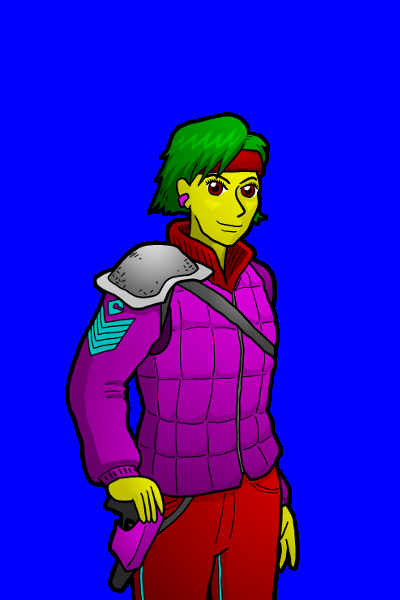
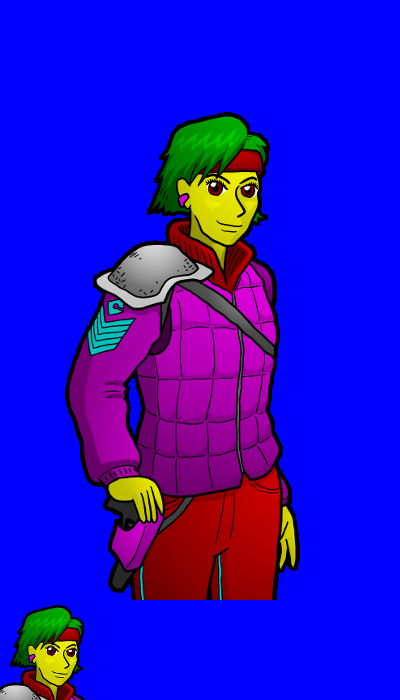
Convo with mecha uses mecha portrait

diff --git a/game/content/mocha.py b/game/content/mocha.py
@@ -120,6 +120,10 @@ class WinterMochaBlower( waypoints.Waypoint ):
     TILE = pbge.scenes.Tile( None, None, WinterMochaBlowerTerrain )
     desc = "You stand before an industrial air blower. It's probably being used in the construction of the new arena."
 
+class WinterMochaPavement( pbge.scenes.terrain.VariableTerrain ):
+    image_bottom = 'terrain_wintermocha_pavement.png'
+    border = pbge.scenes.terrain.FloorBorder( ghterrain.Snow, 'terrain_border_snowline.png' )
+
 # *****************
 # ***   PLOTS   ***
 # *****************
@@ -174,8 +178,8 @@ class FrozenHotSpringCity( Plot ):
          gears.stats.Charm:12,gears.stats.MechaPiloting:7,gears.stats.MechaGunnery:7,
          gears.stats.MechaFighting:7},
          personality=[personality.Cheerful,personality.Shy,personality.Fellowship])
-        vikki.imagename = 'cha_wm_vikki.png'
-        vikki.portrait = 'por_f_wintervikki.png'
+        #vikki.imagename = 'cha_wm_vikki.png'
+        vikki.portrait = 'card_f_wintervikki.png'
         vikki.colors = (gears.color.ShiningWhite,gears.color.LightSkin,gears.color.NobleGold,gears.color.HunterOrange,gears.color.Olive)
         vikki.mmode = pbge.scenes.movement.Walking
         myroom.contents.append(vikki)
@@ -191,7 +195,7 @@ class FrozenHotSpringCity( Plot ):
 
         fence_gate = self.register_element("FENCE_GATE",waypoints.Waypoint(plot_locked=True,desc="This is the gate of the mecha storage yard."))
 
-        myroom4 = pbge.randmaps.rooms.FuzzyRoom(6,5,anchor=pbge.randmaps.anchors.northwest,parent=myscenegen)
+        myroom4 = self.register_element("FENCE_GATE_ROOM",pbge.randmaps.rooms.FuzzyRoom(6,5,anchor=pbge.randmaps.anchors.northwest,parent=myscenegen))
         myroom5 = WinterMochaFence(parent=myroom4,anchor=pbge.randmaps.anchors.west,waypoints={'DOOR':fence_gate})
 
         # I don't know why I added a broken shovel. Just thought it was funny.
@@ -210,6 +214,7 @@ class FrozenHotSpringCity( Plot ):
 
         self.add_sub_plot( nart, "MOCHA_MISSION", PlotState( elements={"CITY":myscene} ).based_on( self ), ident="COMBAT" )
         self.add_sub_plot( nart, "MOCHA_HYOLEE" )
+        self.add_sub_plot( nart, "MOCHA_CARTER" )
 
         self.did_opening_sequence = False
         self.got_vikki_history = False
@@ -340,9 +345,57 @@ class WinterMochaHyolee( Plot ):
         hyolee.colors = (gears.color.Viridian,gears.color.Chocolate,gears.color.Saffron,gears.color.GunRed,gears.color.RoyalPink)
         hyolee.mmode = pbge.scenes.movement.Walking
         self.register_element( "HYOLEE", hyolee, dident="ROOM" )
-
-
         return True
+
+class WinterMochaCarter( Plot ):
+    LABEL = "MOCHA_CARTER"
+    active = True
+    scope = "LOCALE"
+    def custom_init( self, nart ):
+        myscene = self.elements["LOCALE"]
+
+        carter = gears.base.Character(name="Carter",statline={gears.stats.Reflexes:14,
+         gears.stats.Body:16,gears.stats.Speed:12,gears.stats.Perception:15,
+         gears.stats.Knowledge:14,gears.stats.Craft:11,gears.stats.Ego:13,
+         gears.stats.Charm:9,gears.stats.MechaGunnery:6,gears.stats.MechaFighting:6,
+         gears.stats.MechaPiloting:7},
+         personality=[personality.Shy,personality.Easygoing,personality.Justice])
+        carter.imagename = 'cha_wm_hyolee.png'
+        carter.portrait = 'por_m_wintercarter.png'
+        carter.colors = (gears.color.BugBlue,gears.color.Burlywood,gears.color.AceScarlet,gears.color.SkyBlue,gears.color.SlateGrey)
+        carter.mmode = pbge.scenes.movement.Walking
+        self.register_element( "CARTER", carter, dident="FENCE_GATE_ROOM" )
+        return True
+
+
+# Mocha Mission Construction.
+#
+# The Mocha mission is going to use a miniature version of the GH1 core story
+# generator plus a branching conclusion. One of the brilliant things about
+# defining content in Python is that I don't need to hardcode the story
+# generator; instead, the plots involved can define their own rules. Yay!
+#
+# Here's how the story generator works. There are three story state variables-
+# in this case they will be Enemy, Complication, and Stakes. Each story
+# component is keyed to two of the state variables and alters one of them.
+# If each variable has ten possible states, that means there are 1000 possible
+# story states but only 300 story components are needed to ensure three
+# possible outcomes for each state.
+#
+# In practice, far fewer components should be needed since not every state
+# will be reachable and each state really only needs one possible outcome.
+# Plus, many components will have broad requirements- instead of only applying
+# to a single two-variable state, it may apply to multiple states involving
+# those two variables.
+#
+# Enemy -
+# Complication - 
+# Stakes - 
+
+class WMRoad( pbge.randmaps.rooms.Room ):
+    """A room without hard walls, with default ground floors."""
+    def build( self, gb, archi ):
+        gb.fill(self.area,floor=WinterMochaPavement)
 
 
 class WinterBattle( Plot ):
@@ -365,7 +418,7 @@ class WinterBattle( Plot ):
         myscene.exploration_music = 'Lines.ogg'
         myscene.combat_music = 'Late.ogg'
 
-        myroom = pbge.randmaps.rooms.FuzzyRoom(10,10,parent=myscene,anchor=pbge.randmaps.anchors.south)
+        myroom = WMRoad(10,10,parent=myscene,anchor=pbge.randmaps.anchors.south)
         myent = self.register_element( "ENTRANCE", waypoints.Waypoint(anchor=pbge.randmaps.anchors.middle))
         myroom.contents.append( myent )
 

diff --git a/pbge/image.py b/pbge/image.py
@@ -24,7 +24,7 @@ class Gradient( Singleton ):
 
 
 class Image( object ):
-    def __init__(self,fname=None,frame_width=0,frame_height=0,color=None):
+    def __init__(self,fname=None,frame_width=0,frame_height=0,color=None,custom_frames=None):
         """Load image file, or create blank image, at frame size"""
         if fname:
             if (fname,repr(color)) in pre_loaded_images:
@@ -51,20 +51,35 @@ class Image( object ):
         self.frame_width = frame_width
         self.frame_height = frame_height
 
+        self.custom_frames = custom_frames
+
     def render( self , dest = (0,0) , frame=0, dest_surface=None ):
         # Render this Image onto the provided surface.
         # Start by determining the correct sub-area of the image.
-        frames_per_row = self.bitmap.get_width() / self.frame_width
-        area_x = ( frame % frames_per_row ) * self.frame_width
-        area_y = ( frame / frames_per_row ) * self.frame_height
-        area = pygame.Rect( area_x , area_y , self.frame_width , self.frame_height )
+        if self.custom_frames and frame < len(self.custom_frames):
+            area = pygame.Rect(self.custom_frames[frame])
+        else:
+            frames_per_row = self.bitmap.get_width() / self.frame_width
+            area_x = ( frame % frames_per_row ) * self.frame_width
+            area_y = ( frame / frames_per_row ) * self.frame_height
+            area = pygame.Rect( area_x , area_y , self.frame_width , self.frame_height )
         dest_surface = dest_surface or my_state.screen
         dest_surface.blit(self.bitmap , dest , area )
 
+    def get_rect( self, frame ):
+        # Return a rect of the correct size for this frame.
+        if self.custom_frames and frame < len(self.custom_frames):
+            return pygame.Rect(0,0,self.custom_frames[frame][2],self.custom_frames[frame][3])
+        else:
+            return pygame.Rect(0,0,self.frame_width,self.frame_height)
+
     def num_frames( self ):
-        frames_per_row = self.bitmap.get_width() / self.frame_width
-        frames_per_column = self.bitmap.get_height() / self.frame_height
-        return frames_per_row * frames_per_column
+        if self.custom_frames:
+            return len(self.custom_frames)
+        else:
+            frames_per_row = self.bitmap.get_width() / self.frame_width
+            frames_per_column = self.bitmap.get_height() / self.frame_height
+            return frames_per_row * frames_per_column
 
     def recolor( self, color_channels ): 
         # Just gonna brute force this. It could probably be speeded up by using

diff --git a/gears/base.py b/gears/base.py
@@ -131,6 +131,27 @@ class Stackable( KeyObject ):
             and self.name is part.name and self.desig is part.desig
             and not self.inv_com and not self.sub_com )
 
+class WithPortrait( pbge.scenes.PlaceableThing ):
+    def __init__(self, portrait=None, **keywords ):
+        self.portrait = portrait
+        super(WithPortrait, self).__init__(**keywords)
+    SAVE_PARAMETERS = ('portrait',)
+    FRAMES = ((0,0,400,600),(0,600,100,100),(100,600,64,64))
+    def get_sprite(self):
+        """Generate the sprite for this thing."""
+        if self.portrait and self.portrait.startswith('card_'):
+            self.frame = 2
+            return pbge.image.Image(self.portrait,self.imagewidth,self.imageheight,self.colors,custom_frames=self.FRAMES)
+        else:
+            return pbge.image.Image(self.imagename,self.imagewidth,self.imageheight,self.colors)
+    def get_portrait(self):
+        if self.portrait:
+            if self.portrait.startswith('card_'):
+                return pbge.image.Image(self.portrait,self.imagewidth,self.imageheight,self.colors,custom_frames=self.FRAMES)
+            else:
+                return pbge.image.Image(self.portrait,400,600,self.colors)
+
+
 class Mover( KeyObject ):
     # A mover is a gear that moves under its own power, like a character or mecha.
     def __init__(self, **keywords ):
@@ -450,6 +471,7 @@ class BaseGear( scenes.PlaceableThing ):
         memo[id(self)] = newgear
 
         return newgear
+
 
 #
 #  Practical Gears
@@ -1331,7 +1353,7 @@ class MT_Battroid( Singleton ):
         return base_speed
 
 
-class Mecha(BaseGear,ContainerDamageHandler,Mover):
+class Mecha(BaseGear,ContainerDamageHandler,Mover,WithPortrait):
     SAVE_PARAMETERS = ('name','form')
     def __init__(self, form=MT_Battroid, **keywords ):
         name = keywords.get(  "name" )
@@ -1508,7 +1530,7 @@ class Mecha(BaseGear,ContainerDamageHandler,Mover):
         return it
 
 
-class Character(BaseGear,StandardDamageHandler,Mover):
+class Character(BaseGear,StandardDamageHandler,Mover,WithPortrait):
     SAVE_PARAMETERS = ('name','form')
     DEFAULT_SCALE = scale.HumanScale
     DEFAULT_MATERIAL = materials.Meat

diff --git a/game/ghdialogue/ghdview.py b/game/ghdialogue/ghdview.py
@@ -8,14 +8,19 @@ class ConvoVisualizer(object):
     TEXT_AREA = pbge.frects.Frect(0,-125,350,100)
     MENU_AREA = pbge.frects.Frect(0,0,350,80)
     PORTRAIT_AREA = pbge.frects.Frect(-370,-300,400,600)
+    PILOT_AREA = pbge.frects.Frect(-350,-250,100,100)
     
     def __init__(self,npc):
-        npc = npc.get_pilot()
-        self.npc = npc
-        if hasattr(npc, "portrait"):
-            self.npc_sprite = pbge.image.Image(npc.portrait,400,600,npc.colors)
+        pilot = npc.get_pilot()
+        self.npc = pilot
+        if hasattr(npc, "get_portrait"):
+            self.npc_sprite = npc.get_portrait()
         else:
             self.npc_sprite = None
+        if pilot is not npc and hasattr(pilot, "get_portrait"):
+            self.pilot_sprite = pilot.get_portrait()
+        else:
+            self.pilot_sprite = None
         self.bottom_sprite = pbge.image.Image('sys_wintermocha_convoborder.png',32,200)
         self.text = ''
     def render(self):
@@ -25,6 +30,10 @@ class ConvoVisualizer(object):
         self.bottom_sprite.tile(pygame.Rect(0,my_state.screen.get_height()//2+100,my_state.screen.get_width(),200))
         if self.npc_sprite:
             self.npc_sprite.render(self.PORTRAIT_AREA.get_rect())
+        if self.pilot_sprite:
+            default_border.render(self.PILOT_AREA.get_rect())
+            self.pilot_sprite.render(self.PILOT_AREA.get_rect(),1)
+
 
         text_rect = self.TEXT_AREA.get_rect()
         default_border.render(text_rect)

diff --git a/pbge/scenes/__init__.py b/pbge/scenes/__init__.py
@@ -114,7 +114,7 @@ class PlaceableThing( KeyObject ):
         return image.Image(self.imagename,self.imagewidth,self.imageheight,self.colors)
     def render( self, foot_pos, view ):
         spr = view.get_sprite(self)
-        mydest = pygame.Rect(0,0,spr.frame_width,spr.frame_height)
+        mydest = spr.get_rect(self.frame)
         mydest.midbottom = foot_pos
         spr.render( mydest, self.frame )
     def move( self, dest, view, speed=0.25 ):

diff --git a/game/ghdialogue/__init__.py b/game/ghdialogue/__init__.py
@@ -8,6 +8,8 @@ import ghoffers
 
 
 def build_grammar( mygram, camp, speaker, audience ):
+    speaker = speaker.get_pilot()
+    audience = audience.get_pilot()
     for pat,gramdic in ghgrammar.DEFAULT_GRAMMAR.iteritems():
         for k,v in gramdic.iteritems():
             if k is ghgrammar.Default:

diff --git a/main.py b/main.py
@@ -30,7 +30,7 @@ class TitleScreenRedraw(object):
         self.flakes = list()
 
     def add_snow(self,dest):
-        for t in range(random.randint(1,3)):
+        for t in range(min(random.randint(1,3),random.randint(1,3))):
             self.flakes.append(Snowflake(dest))
 
     def __call__(self):
